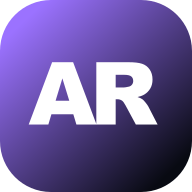
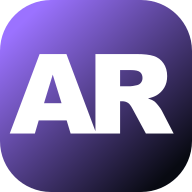
fix: polish mobile PWA experience

Changed region(s): [[0.0312, 0.2812, 0.9062, 0.7188]]

diff --git a/frontend/src/components/layout/ChangelogModal.css b/frontend/src/components/layout/ChangelogModal.css
@@ -2,7 +2,8 @@
 .changelog-backdrop{position:fixed;inset:0;z-index:1800;display:grid;place-items:center;padding:20px;background:rgba(3,5,10,.78);backdrop-filter:blur(12px)}.changelog-modal{width:min(880px,100%);max-height:min(680px,calc(100dvh - 40px));display:flex;flex-direction:column;overflow:hidden;border:1px solid color-mix(in srgb,var(--accent) 30%,var(--line));border-radius:24px;background:linear-gradient(145deg,color-mix(in srgb,var(--user-surface,#171b29) 97%,var(--accent) 3%),var(--user-bg,#0a0c14));box-shadow:0 32px 110px rgba(0,0,0,.62)}
 .changelog-header{min-height:92px;display:grid;grid-template-columns:46px minmax(0,1fr) 38px;align-items:center;gap:14px;padding:20px 22px;border-bottom:1px solid var(--line)}.changelog-icon{width:46px;height:46px;display:grid;place-items:center;border-radius:14px;color:#fff;background:linear-gradient(145deg,var(--accent),var(--accent-2));box-shadow:0 10px 28px color-mix(in srgb,var(--accent) 28%,transparent)}.changelog-icon svg{width:21px}.changelog-header small{color:var(--accent);font-size:9px;font-weight:850;letter-spacing:1.2px;text-transform:uppercase}.changelog-header h2{margin:3px 0 0;font-size:23px;letter-spacing:-.7px}.changelog-close{width:38px;height:38px;display:grid;place-items:center;border:1px solid transparent;border-radius:11px;color:var(--muted);background:transparent}.changelog-close:hover,.changelog-close:focus-visible{border-color:var(--line);color:#fff;background:rgba(255,255,255,.05);outline:none}.changelog-close svg{width:18px}
 .changelog-layout{min-height:0;display:grid;grid-template-columns:220px minmax(0,1fr);flex:1}.release-list{min-height:0;display:flex;flex-direction:column;gap:3px;overflow-y:auto;padding:14px;border-right:1px solid var(--line);scrollbar-width:thin;scrollbar-color:color-mix(in srgb,var(--accent) 45%,transparent) transparent}.release-list button{min-height:62px;display:grid;grid-template-columns:minmax(0,1fr) 16px;grid-template-rows:auto auto;align-items:center;padding:10px 11px;border:1px solid transparent;border-radius:11px;color:var(--muted);text-align:left;background:transparent}.release-list button:hover{color:#e9ebf3;background:rgba(255,255,255,.035)}.release-list button.active{border-color:color-mix(in srgb,var(--accent) 30%,var(--line));color:#fff;background:color-mix(in srgb,var(--accent) 11%,transparent)}.release-list span{font-size:8px;line-height:1.35}.release-list strong{display:flex;align-items:center;gap:6px;font-size:12px}.release-list strong i{padding:3px 5px;border-radius:99px;color:var(--accent);background:color-mix(in srgb,var(--accent) 13%,transparent);font-size:7px;font-style:normal;text-transform:uppercase}.release-list svg{grid-column:2;grid-row:1/3;width:14px;transition:transform .18s}.release-list button.active svg{color:var(--accent);transform:translateX(2px)}
+.release-list span{grid-column:1;grid-row:1}.release-list strong{grid-column:1;grid-row:2}
 .release-detail{min-height:0;overflow-y:auto;padding:34px 38px 38px;scrollbar-width:thin;scrollbar-color:color-mix(in srgb,var(--accent) 45%,transparent) transparent}.release-meta{display:flex;align-items:center;justify-content:space-between;gap:18px}.release-meta span{padding:6px 9px;border-radius:99px;color:var(--accent);background:color-mix(in srgb,var(--accent) 12%,transparent);font-size:9px;font-weight:800}.release-meta time{color:var(--muted);font-size:9px}.release-detail h3{margin:22px 0 8px;font-size:clamp(25px,4vw,36px);letter-spacing:-1.2px}.release-detail>div>p{max-width:620px;margin:0;color:#aeb4c4;font-size:12px;line-height:1.65}.release-changes{display:grid;gap:9px;margin-top:25px}.release-changes>div{display:grid;grid-template-columns:84px minmax(0,1fr);align-items:center;gap:12px;padding:14px;border:1px solid rgba(255,255,255,.055);border-radius:13px;background:rgba(255,255,255,.025)}.change-type{width:max-content;padding:5px 7px;border-radius:7px;color:#cfc4ff;background:rgba(168,139,255,.11);font-size:8px;font-weight:850;text-transform:uppercase}.type-logica{color:#8fe2bd;background:rgba(97,217,162,.1)}.type-seguridad{color:#ffb2b7;background:rgba(239,107,115,.1)}.type-rendimiento{color:#94d9ff;background:rgba(62,169,233,.1)}.type-integracion{color:#ffd995;background:rgba(244,174,62,.1)}.type-comunidad{color:#f5a9d2;background:rgba(235,103,174,.1)}.release-changes p{min-height:18px;display:block;position:relative;margin:0;padding-inline:24px;color:#dfe2eb;text-align:center;font-size:12px;line-height:1.55}.release-changes p svg{position:absolute;left:0;top:50%;width:14px;height:14px;color:var(--accent);transform:translateY(-50%)}.release-current{display:flex;align-items:center;justify-content:center;gap:7px;margin-top:22px;color:var(--muted);text-align:center;font-size:10px}.release-current svg{width:14px;color:var(--accent)}
 .minor-updates{display:grid;gap:8px;margin-top:30px;padding-top:22px;border-top:1px solid var(--line)}.minor-updates-heading{display:flex;align-items:center;justify-content:space-between;gap:14px;margin-bottom:3px}.minor-updates-heading small{color:var(--accent);font-size:8px;font-weight:800;letter-spacing:1px;text-transform:uppercase}.minor-updates-heading h4{margin:3px 0 0;font-family:var(--font-display);font-size:16px}.minor-updates-heading>span{min-width:25px;height:25px;display:grid;place-items:center;border-radius:99px;color:var(--accent);background:color-mix(in srgb,var(--accent) 12%,transparent);font-size:9px;font-weight:800}.minor-update{overflow:hidden;border:1px solid rgba(255,255,255,.06);border-radius:13px;background:rgba(255,255,255,.02)}.minor-update.expanded{border-color:color-mix(in srgb,var(--accent) 25%,var(--line));background:color-mix(in srgb,var(--accent) 4%,transparent)}.minor-update>button{width:100%;min-height:62px;display:flex;align-items:center;justify-content:space-between;gap:14px;padding:12px 14px;border:0;color:inherit;text-align:left;background:transparent}.minor-update>button:hover{background:rgba(255,255,255,.025)}.minor-update>button>span{display:grid;gap:4px}.minor-update>button small{color:var(--muted);font-size:8px}.minor-update>button strong{font-size:11px}.minor-update>button>svg{width:16px;color:var(--muted);transition:transform .2s,color .2s}.minor-update.expanded>button>svg{color:var(--accent);transform:rotate(180deg)}.minor-update-content{overflow:hidden}.minor-update-content>p{margin:0;padding:0 14px 12px;color:var(--muted);font-size:10px;line-height:1.5}.release-changes.compact{gap:6px;margin:0;padding:0 10px 10px}.release-changes.compact>div{padding:10px 12px;background:color-mix(in srgb,var(--user-bg,#0a0c14) 52%,transparent)}.release-changes.compact p{font-size:10px}.release-current{display:flex;align-items:center;justify-content:center;gap:7px;margin-top:22px;color:var(--muted);text-align:center;font-size:10px}.release-current svg{width:14px;color:var(--accent)}
-@media(max-width:700px){.topbar{position:relative}.version-button{position:absolute;left:52px;top:50%;transform:translateY(-50%)}.version-button:hover{transform:translateY(calc(-50% - 1px))}.version-button span{display:none}.changelog-backdrop{padding:10px}.changelog-modal{max-height:calc(100dvh - 20px);border-radius:19px}.changelog-header{min-height:78px;grid-template-columns:38px minmax(0,1fr) 34px;gap:10px;padding:15px}.changelog-icon{width:38px;height:38px;border-radius:11px}.changelog-header h2{font-size:18px}.changelog-layout{display:flex;flex-direction:column}.release-list{display:flex;flex-direction:row;flex:none;overflow-x:auto;padding:9px;border-right:0;border-bottom:1px solid var(--line)}.release-list button{min-width:150px;min-height:58px}.release-list svg{display:none}.release-detail{padding:24px 17px 28px}.release-detail h3{margin-top:18px}.release-changes>div{grid-template-columns:1fr;gap:9px}.change-type{justify-self:center}.release-meta{align-items:flex-start;flex-direction:column;gap:8px}.minor-updates{margin-top:25px}.release-changes.compact>div{padding:11px 9px}}
+@media(max-width:700px){.topbar{position:relative}.version-button{position:absolute;left:52px;top:50%;transform:translateY(-50%)}.version-button:hover{transform:translateY(calc(-50% - 1px))}.version-button span{display:none}.changelog-backdrop{padding:10px}.changelog-modal{max-height:calc(100dvh - 20px);border-radius:19px}.changelog-header{min-height:78px;grid-template-columns:38px minmax(0,1fr) 34px;gap:10px;padding:15px}.changelog-icon{width:38px;height:38px;border-radius:11px}.changelog-header h2{font-size:18px}.changelog-layout{display:flex;flex-direction:column}.release-list{display:flex;flex-direction:row;flex:none;gap:7px;overflow-x:auto;overflow-y:hidden;padding:9px;border-right:0;border-bottom:1px solid var(--line);scroll-snap-type:x proximity}.release-list button{min-width:142px;max-width:142px;min-height:58px;grid-template-columns:minmax(0,1fr);flex:0 0 142px;scroll-snap-align:start}.release-list strong,.release-list span{min-width:0;overflow:hidden;text-overflow:ellipsis;white-space:nowrap}.release-list svg{display:none}.release-detail{padding:24px 17px 28px}.release-detail h3{margin-top:18px}.release-changes>div{grid-template-columns:1fr;gap:9px}.change-type{justify-self:center}.release-meta{align-items:flex-start;flex-direction:column;gap:8px}.minor-updates{margin-top:25px}.release-changes.compact>div{padding:11px 9px}}
 @media(max-width:420px){.version-button{padding-inline:7px}.changelog-backdrop{padding:6px}.changelog-modal{max-height:calc(100dvh - 12px)}.changelog-header small{font-size:8px}.changelog-header h2{font-size:16px}.release-meta time{font-size:8px}}

diff --git a/frontend/src/index.css b/frontend/src/index.css
@@ -662,6 +662,7 @@ a { color:inherit; text-decoration:none; } button { cursor:pointer; }
 .brand-mark{
   box-shadow:0 9px 25px color-mix(in srgb,var(--accent) 32%,transparent),inset 0 -8px 15px color-mix(in srgb,#000 18%,transparent);
 }
+.profile-file-actions{flex-wrap:wrap}
 .notification-button>.notification-unread-dot{
   width:12px;min-width:12px;height:12px;padding:0;right:1px;top:auto;bottom:1px;
   border:2px solid color-mix(in srgb,var(--user-surface,#171b29) 88%,#080a10);
@@ -895,3 +896,23 @@ a.media-credit-card:hover{transform:translateY(-4px);border-color:color-mix(in s
 .pwa-update-toast{position:fixed;z-index:130;right:20px;bottom:20px;width:min(430px,calc(100vw - 28px));display:grid;grid-template-columns:38px minmax(0,1fr) auto 28px;align-items:center;gap:10px;padding:12px;border:1px solid var(--line);border-radius:15px;background:color-mix(in srgb,var(--user-surface,#171b29) 97%,#080a10);box-shadow:0 22px 70px rgba(0,0,0,.55)}.pwa-update-toast>span{width:38px;height:38px;display:grid;place-items:center;border-radius:11px;color:var(--accent);background:color-mix(in srgb,var(--accent) 12%,transparent)}.pwa-update-toast svg{width:17px}.pwa-update-toast strong{font-size:10px}.pwa-update-toast p{margin:3px 0 0;color:var(--muted);font-size:8px}.pwa-update-toast .primary-button{padding:8px 11px;font-size:9px}.pwa-toast-close{width:28px;height:28px;display:grid;place-items:center;border:0;border-radius:8px;color:var(--muted);background:transparent}
 @media(max-width:800px){.pwa-settings-grid{grid-template-columns:1fr}.pwa-push-options{grid-template-columns:1fr 1fr}.pwa-push-options .pwa-test-button{grid-column:1/-1;min-height:42px}}
 @media(max-width:520px){.pwa-settings-panel{padding:16px}.pwa-setting-card{grid-template-columns:40px minmax(0,1fr)}.pwa-setting-icon{width:40px;height:40px}.pwa-setting-card>button,.pwa-setting-card>.pwa-state{grid-column:1/-1;width:100%}.pwa-push-options{grid-template-columns:1fr}.pwa-push-options .pwa-test-button{grid-column:auto}.pwa-update-toast{right:14px;bottom:14px;grid-template-columns:34px minmax(0,1fr) 26px}.pwa-update-toast>.primary-button{grid-column:1/-1}.pwa-update-toast>span{width:34px;height:34px}}
+
+@media(max-width:620px){
+  .schedule-scroll,.future-schedule-scroll{overflow:visible;margin:0;padding:4px 0}
+  .schedule-grid{min-width:0;display:flex;flex-direction:column;gap:8px;padding:2px 0;position:relative}
+  .schedule-line{left:17px;right:auto;top:20px;bottom:20px;width:2px;height:auto;background:linear-gradient(180deg,color-mix(in srgb,var(--accent) 25%,var(--user-surface,#171b29)),var(--accent),color-mix(in srgb,var(--accent) 25%,var(--user-surface,#171b29)))}
+  .schedule-day{min-height:52px;display:grid;grid-template-columns:38px 72px minmax(0,1fr);align-items:center;gap:9px;padding:5px 0}
+  .schedule-day>small{margin:0;color:#c3c7d2;font-size:10px;text-align:left}
+  .day-covers{min-width:0;min-height:0;justify-content:flex-start;gap:8px}
+  .airing-item{width:62px}.airing-cover{width:58px;height:84px}.airing-item>small{max-width:62px;white-space:normal}
+  .no-airing{margin:0;align-self:center}
+  .schedule-undated{align-items:flex-start;gap:12px;margin-top:14px;padding-top:14px}.schedule-undated>strong{width:92px;line-height:1.4}.schedule-undated>div{min-width:0;gap:8px}
+  .future-schedule{min-width:0;width:100%;display:block}.known-days-track{min-width:0;width:100%;display:flex;flex-direction:column;gap:8px;position:relative}
+  .known-days-track .compact-schedule-line{left:17px;right:auto;top:20px;bottom:20px;width:2px;height:auto;background:linear-gradient(180deg,color-mix(in srgb,var(--accent) 25%,var(--user-surface,#171b29)),var(--accent),color-mix(in srgb,var(--accent) 25%,var(--user-surface,#171b29)))}
+  .compact-schedule-day{min-height:76px;display:grid;grid-template-columns:38px 78px minmax(0,1fr);grid-template-rows:auto auto;align-items:center;gap:2px 9px;padding:5px 0}
+  .compact-schedule-day>.day-dot{grid-column:1;grid-row:1/3}.compact-schedule-day>strong{grid-column:2;grid-row:1;margin:0;align-self:end;text-align:left}.compact-schedule-day>small{grid-column:2;grid-row:2;margin:0;align-self:start;text-align:left}
+  .compact-day-media.future-covers{grid-column:3;grid-row:1/3;width:100%;justify-content:flex-start;align-self:center;gap:8px}
+  .compact-day-media .future-cover{width:58px}.compact-day-media .future-cover img{width:58px;height:84px}.compact-day-media .future-cover small{white-space:normal;line-height:1.25}
+  .future-schedule>.compact-schedule-day.unknown,.future-schedule.only-unknown>.compact-schedule-day.unknown{width:100%;min-width:0;margin:10px 0 0;padding:14px 0 0;border-left:0;border-top:1px dashed color-mix(in srgb,var(--accent) 34%,var(--line))}.future-schedule>.compact-schedule-day.unknown::before{display:none}
+  .compact-schedule-day.unknown .future-covers,.future-schedule.only-unknown .future-covers{width:100%;display:flex;grid-template:unset;justify-content:flex-start;margin:0}
+}

diff --git a/frontend/src/components/profile/PwaSettingsPanel.jsx b/frontend/src/components/profile/PwaSettingsPanel.jsx
@@ -1,7 +1,7 @@
 import { Bell, BellRing, Check, Download, ExternalLink, Send, Share2, Smartphone, X } from 'lucide-react'
 import { useCallback, useEffect, useState } from 'react'
 import apiClient from '../../api/apiClient.js'
-import { canPromptInstall, isIos, isStandalone, promptInstall, urlBase64ToUint8Array } from '../../lib/pwaInstall.js'
+import { canPromptInstall, isIos, isStandalone, promptInstall, subscriptionUsesKey, urlBase64ToUint8Array } from '../../lib/pwaInstall.js'
 
 const supported = () => 'serviceWorker' in navigator && 'PushManager' in window && 'Notification' in window
 
@@ -22,6 +22,11 @@ export default function PwaSettingsPanel() {
       const registration = await navigator.serviceWorker.ready
       const current = await registration.pushManager.getSubscription()
       if (current) {
+        if (!subscriptionUsesKey(current, data.publicKey)) {
+          setSubscription(null)
+          setMessage('La configuración de avisos cambió. Volvé a activarlos para renovar este dispositivo.')
+          return
+        }
         const status = await apiClient.post('/push/subscriptions/status', { endpoint: current.endpoint })
         setPreferences({ premieresEnabled: status.data.premieresEnabled, episodesEnabled: status.data.episodesEnabled })
         setSubscription(status.data.enabled ? current : null)
@@ -57,7 +62,13 @@ export default function PwaSettingsPanel() {
       const permission = await Notification.requestPermission()
       if (permission !== 'granted') throw new Error('El permiso de notificaciones no fue concedido.')
       const registration = await navigator.serviceWorker.ready
-      const current = await registration.pushManager.getSubscription() || await registration.pushManager.subscribe({
+      let current = await registration.pushManager.getSubscription()
+      if (current && !subscriptionUsesKey(current, config.publicKey)) {
+        try { await apiClient.delete('/push/subscriptions', { data: { endpoint: current.endpoint } }) } catch { /* An old endpoint may no longer exist server-side. */ }
+        await current.unsubscribe()
+        current = null
+      }
+      current ||= await registration.pushManager.subscribe({
         userVisibleOnly: true,
         applicationServerKey: urlBase64ToUint8Array(config.publicKey),
       })
@@ -91,7 +102,29 @@ export default function PwaSettingsPanel() {
   const test = async () => {
     setBusy(true); setMessage('')
     try { await apiClient.post('/push/test', { endpoint: subscription.endpoint }); setMessage('Prueba enviada. Puede tardar unos segundos.') }
-    catch (error) { setMessage(error.message) }
+    catch (error) {
+      const rejectedSubscription = error.status === 403 || error.message?.includes('HTTP 403')
+      if (!rejectedSubscription || !config?.publicKey) {
+        setMessage(error.message)
+      } else {
+        try {
+          try { await apiClient.delete('/push/subscriptions', { data: { endpoint: subscription.endpoint } }) } catch { /* The rejected endpoint may already be absent. */ }
+          await subscription.unsubscribe()
+          const registration = await navigator.serviceWorker.ready
+          const renewed = await registration.pushManager.subscribe({
+            userVisibleOnly: true,
+            applicationServerKey: urlBase64ToUint8Array(config.publicKey),
+          })
+          await apiClient.post('/push/subscriptions', payload(renewed))
+          setSubscription(renewed)
+          await apiClient.post('/push/test', { endpoint: renewed.endpoint })
+          setMessage('Renovamos la configuración del dispositivo y enviamos la prueba.')
+        } catch (renewalError) {
+          setSubscription(null)
+          setMessage(`No pudimos renovar los avisos automáticamente: ${renewalError.message}`)
+        }
+      }
+    }
     finally { setBusy(false) }
   }
 

diff --git a/frontend/src/views/ProfileView.jsx b/frontend/src/views/ProfileView.jsx
@@ -1,6 +1,6 @@
 import { lazy, Suspense, useEffect, useMemo, useRef, useState } from 'react'
 import { AnimatePresence, motion } from 'framer-motion'
-import { BookOpen, ChevronLeft, ChevronRight, Clapperboard, FileImage, Heart, Palette, RotateCcw, Save, Sparkles, Star, Trophy, Upload, UserRound } from 'lucide-react'
+import { BookOpen, Camera, ChevronLeft, ChevronRight, Clapperboard, FileImage, Heart, Palette, RotateCcw, Save, Sparkles, Star, Trophy, Upload, UserRound } from 'lucide-react'
 import { useDispatch, useSelector } from 'react-redux'
 import { Link } from 'react-router-dom'
 import { prepareImageForCrop } from '../lib/profileImage.js'
@@ -118,6 +118,7 @@ function FavoritePeopleList({ title, entries, path }) {
 
 function ProfileFileField({ type, label, hint, value, custom, aniListFallback, busy, dispatch }) {
   const inputId = `profile-${type}-file`
+  const cameraInputId = `profile-${type}-camera`
   const [selectedFile, setSelectedFile] = useState(null)
   const [preparing, setPreparing] = useState(false)
   const choose = async (event) => {
@@ -130,8 +131,9 @@ function ProfileFileField({ type, label, hint, value, custom, aniListFallback, b
   }
   return <article className="profile-file-field">
     <div className="profile-file-icon">{value ? <img src={value} alt="" decoding="async" /> : <FileImage />}</div>
-    <div><strong>{label}</strong><small>{preparing ? 'Preparando vista previa...' : hint}</small><div className="profile-file-actions"><label htmlFor={inputId} className={busy || preparing ? 'disabled' : ''}><Upload /> {preparing ? 'Preparando...' : custom ? 'Cambiar' : 'Subir'}</label>{custom && <button type="button" disabled={busy || preparing} onClick={() => dispatch(deleteProfileAsset(type))}><RotateCcw /> {aniListFallback ? 'Usar AniList' : 'Quitar'}</button>}</div></div>
+    <div><strong>{label}</strong><small>{preparing ? 'Preparando vista previa...' : hint}</small><div className="profile-file-actions"><label htmlFor={inputId} className={busy || preparing ? 'disabled' : ''}><Upload /> {preparing ? 'Preparando...' : custom ? 'Cambiar' : 'Subir'}</label><label htmlFor={cameraInputId} className={busy || preparing ? 'disabled' : ''}><Camera /> Cámara</label>{custom && <button type="button" disabled={busy || preparing} onClick={() => dispatch(deleteProfileAsset(type))}><RotateCcw /> {aniListFallback ? 'Usar AniList' : 'Quitar'}</button>}</div></div>
     <input id={inputId} type="file" accept="image/jpeg,image/png,image/webp" onChange={choose} disabled={busy || preparing} />
+    <input id={cameraInputId} type="file" accept="image/*" capture={type === 'avatar' ? 'user' : 'environment'} onChange={choose} disabled={busy || preparing} />
     <AnimatePresence>{selectedFile && <Suspense fallback={null}><ImageCropModal file={selectedFile} type={type} onCancel={() => setSelectedFile(null)} onConfirm={(file) => { dispatch(uploadProfileAsset({ type, file })); setSelectedFile(null) }} /></Suspense>}</AnimatePresence>
   </article>
 }

diff --git a/frontend/api/pwa-icon.js b/frontend/api/pwa-icon.js
@@ -1,0 +1,24 @@
+import { ImageResponse } from '@vercel/og'
+import { createElement as h } from 'react'
+
+export const config = { runtime: 'edge' }
+
+const A = 'M511.6363525390625 1320H854.0291748046875L1387.8470458984375 0H1016.7877197265625L927.3330078125 245.1217041015625H440.090087890625L349.51416015625 0H-22.545166015625ZM556.3927001953125 548.1510009765625H811.151611328125L685.2115478515625 902.1832275390625H682.2115478515625Z'
+const R = 'M64.18212890625 1320H632.423828125Q749.99951171875 1320 841.2116088867188 1270.5909423828125Q932.4237060546875 1221.181884765625 984.4843139648438 1129.136474609375Q1036.544921875 1037.091064453125 1036.544921875 910.060791015625Q1036.544921875 783.9093017578125 993.7721557617188 705.1062622070312Q950.9993896484375 626.30322265625 891.18115234375 587.060791015625Q831.3629150390625 547.818359375 780.6658935546875 538.1517333984375L1098.7265625 0H708.3642578125L430.1822509765625 511.3033447265625H412.665771484375V0H64.18212890625ZM412.665771484375 748.8177490234375H506.9697265625Q571.7276611328125 748.8177490234375 625.3793334960938 779.999755859375Q679.031005859375 811.1817626953125 679.031005859375 898.6365966796875Q679.031005859375 986.0914306640625 626.697509765625 1016.9097900390625Q574.364013671875 1047.7281494140625 509.6060791015625 1047.7281494140625H412.665771484375Z'
+const color = (value, fallback) => /^[0-9a-f]{6}$/i.test(value || '') ? `#${value}` : fallback
+
+export default function handler(request) {
+  const params = new URL(request.url).searchParams
+  const size = [96, 128, 180, 192, 512].includes(Number(params.get('size'))) ? Number(params.get('size')) : 512
+  const accent = color(params.get('accent'), '#9b72ff')
+  const background = color(params.get('background'), '#080a12')
+  return new ImageResponse(
+    h('div', { style: { width: '100%', height: '100%', display: 'flex', alignItems: 'center', justifyContent: 'center', background: `linear-gradient(145deg,${accent},${background} 88%)` } },
+      h('svg', { width: '100%', height: '100%', viewBox: '0 0 512 512', fill: '#fff' },
+        h('path', { d: A, transform: 'translate(61 370) scale(.153664 -.153664)' }),
+        h('path', { d: R, transform: 'translate(264.913 370) scale(.153664 -.153664)' }),
+      ),
+    ),
+    { width: size, height: size, headers: { 'cache-control': 'public, max-age=604800, immutable' } },
+  )
+}

diff --git a/frontend/api/pwa-manifest.js b/frontend/api/pwa-manifest.js
@@ -1,0 +1,29 @@
+export const config = { runtime: 'edge' }
+
+const color = (value, fallback) => /^[0-9a-f]{6}$/i.test(value || '') ? value.toLowerCase() : fallback
+
+export default function handler(request) {
+  const params = new URL(request.url).searchParams
+  const accent = color(params.get('accent'), '9b72ff')
+  const background = color(params.get('background'), '080a12')
+  const icon = (size, purpose) => ({
+    src: `/api/pwa-icon?size=${size}&accent=${accent}&background=${background}`,
+    sizes: `${size}x${size}`,
+    type: 'image/png',
+    ...(purpose ? { purpose } : {}),
+  })
+  return Response.json({
+    id: '/',
+    name: 'AniRecord',
+    short_name: 'AniRecord',
+    description: 'Tu biblioteca personal de anime y manga.',
+    lang: 'es-AR',
+    start_url: '/',
+    scope: '/',
+    display: 'standalone',
+    background_color: `#${background}`,
+    theme_color: `#${accent}`,
+    categories: ['entertainment', 'lifestyle'],
+    icons: [icon(192), icon(512), icon(512, 'maskable')],
+  }, { headers: { 'cache-control': 'private, max-age=300', 'content-type': 'application/manifest+json' } })
+}

diff --git a/frontend/src/lib/pwaBranding.js b/frontend/src/lib/pwaBranding.js
@@ -1,0 +1,26 @@
+const DEFAULT_ACCENT = '#9b72ff'
+const DEFAULT_BACKGROUND = '#080a12'
+
+function validColor(value, fallback) {
+  return /^#[0-9a-f]{6}$/i.test(value || '') ? value : fallback
+}
+
+export function updatePwaBranding(accent, background) {
+  const accentColor = validColor(accent, DEFAULT_ACCENT)
+  const backgroundColor = validColor(background, DEFAULT_BACKGROUND)
+  const query = new URLSearchParams({
+    accent: accentColor.slice(1),
+    background: backgroundColor.slice(1),
+  })
+  const manifest = document.querySelector('link[rel="manifest"]')
+  if (manifest) manifest.href = `/api/pwa-manifest?${query}`
+
+  const iconUrl = `/api/pwa-icon?size=192&${query}`
+  const favicon = document.querySelector('link[rel="icon"]')
+  if (favicon) {
+    favicon.href = iconUrl
+    favicon.type = 'image/png'
+  }
+  const appleIcon = document.querySelector('link[rel="apple-touch-icon"]')
+  if (appleIcon) appleIcon.href = `/api/pwa-icon?size=180&${query}`
+}

diff --git a/frontend/src/components/layout/AppLayout.jsx b/frontend/src/components/layout/AppLayout.jsx
@@ -9,6 +9,7 @@ import ChangelogModal, { VersionButton } from './ChangelogModal.jsx'
 import ToastViewport from '../common/ToastViewport.jsx'
 import BrandMark from '../common/BrandMark.jsx'
 import PwaUpdateToast from '../common/PwaUpdateToast.jsx'
+import { updatePwaBranding } from '../../lib/pwaBranding.js'
 import { logout } from '../../features/auth/authSlice.js'
 
 const links = [
@@ -50,6 +51,7 @@ export default function AppLayout() {
     Object.entries(variables).forEach(([name, value]) => value && root.style.setProperty(name, value))
     const themeMeta = document.querySelector('meta[name="theme-color"]')
     if (themeMeta && backgroundColor) themeMeta.setAttribute('content', backgroundColor)
+    updatePwaBranding(accentColor, backgroundColor)
     return () => Object.keys(variables).forEach((name) => root.style.removeProperty(name))
   }, [accentColor, backgroundColor, surfaceColor])
   return (

diff --git a/frontend/src/data/releaseNotes.js b/frontend/src/data/releaseNotes.js
@@ -1,6 +1,18 @@
-export const CURRENT_VERSION = '1.11.0'
+export const CURRENT_VERSION = '1.11.1'
 
 export const RELEASES = [
+  {
+    version: '1.11.1',
+    date: '5 de octubre de 2026',
+    title: 'Correcciones de la app',
+    summary: 'Pulimos la instalación y el uso de AniRecord desde el celular.',
+    changes: [
+      { type: 'Notificaciones', text: 'Renovamos automáticamente las suscripciones antiguas que impedían enviar pruebas.' },
+      { type: 'Celular', text: 'El calendario ahora baja por la pantalla y muestra los animes a la derecha de cada día.' },
+      { type: 'App', text: 'El icono es más grande y toma los colores elegidos en el perfil al instalarse.' },
+      { type: 'Perfil', text: 'Ahora podés abrir la cámara al cambiar tu avatar o banner.' },
+    ],
+  },
   {
     version: '1.11.0',
     date: '5 de octubre de 2026',

diff --git a/frontend/src/lib/pwaInstall.test.js b/frontend/src/lib/pwaInstall.test.js
@@ -1,0 +1,16 @@
+import assert from 'node:assert/strict'
+import test from 'node:test'
+import { subscriptionUsesKey, urlBase64ToUint8Array } from './pwaInstall.js'
+
+const publicKey = 'AQIDBA'
+
+test('recognizes a subscription created with the active VAPID key', () => {
+  const bytes = urlBase64ToUint8Array(publicKey)
+  const applicationServerKey = bytes.buffer.slice(bytes.byteOffset, bytes.byteOffset + bytes.byteLength)
+  assert.equal(subscriptionUsesKey({ options: { applicationServerKey } }, publicKey), true)
+})
+
+test('rejects missing or stale VAPID keys', () => {
+  assert.equal(subscriptionUsesKey({ options: {} }, publicKey), false)
+  assert.equal(subscriptionUsesKey({ options: { applicationServerKey: new Uint8Array([1, 2, 3]).buffer } }, publicKey), false)
+})

diff --git a/frontend/src/lib/pwaInstall.js b/frontend/src/lib/pwaInstall.js
@@ -30,3 +30,11 @@ export function urlBase64ToUint8Array(value) {
   const raw = atob((value + padding).replace(/-/g, '+').replace(/_/g, '/'))
   return Uint8Array.from([...raw].map((character) => character.charCodeAt(0)))
 }
+
+export function subscriptionUsesKey(subscription, publicKey) {
+  const current = subscription?.options?.applicationServerKey
+  if (!current || !publicKey) return false
+  const expected = urlBase64ToUint8Array(publicKey)
+  const actual = new Uint8Array(current)
+  return actual.length === expected.length && actual.every((value, index) => value === expected[index])
+}

diff --git a/backend/src/main/java/com/animelist/backend/service/WebPushGateway.java b/backend/src/main/java/com/animelist/backend/service/WebPushGateway.java
@@ -3,6 +3,7 @@ package com.animelist.backend.service;
 import com.animelist.backend.entity.PushSubscription;
 import java.nio.charset.StandardCharsets;
 import nl.martijndwars.webpush.Notification;
+import nl.martijndwars.webpush.Encoding;
 import nl.martijndwars.webpush.PushService;
 import org.apache.http.HttpResponse;
 import org.springframework.beans.factory.annotation.Value;
@@ -34,7 +35,9 @@ public class WebPushGateway {
         Notification notification = new Notification(
                 subscription.getEndpoint(), subscription.getP256dhKey(), subscription.getAuthKey(),
                 payload.getBytes(StandardCharsets.UTF_8), 300);
-        HttpResponse response = pushService.send(notification);
+        // aes128gcm is the current Web Push content encoding. The library's
+        // one-argument overload still falls back to the legacy aesgcm format.
+        HttpResponse response = pushService.send(notification, Encoding.AES128GCM);
         return response.getStatusLine().getStatusCode();
     }
 }
